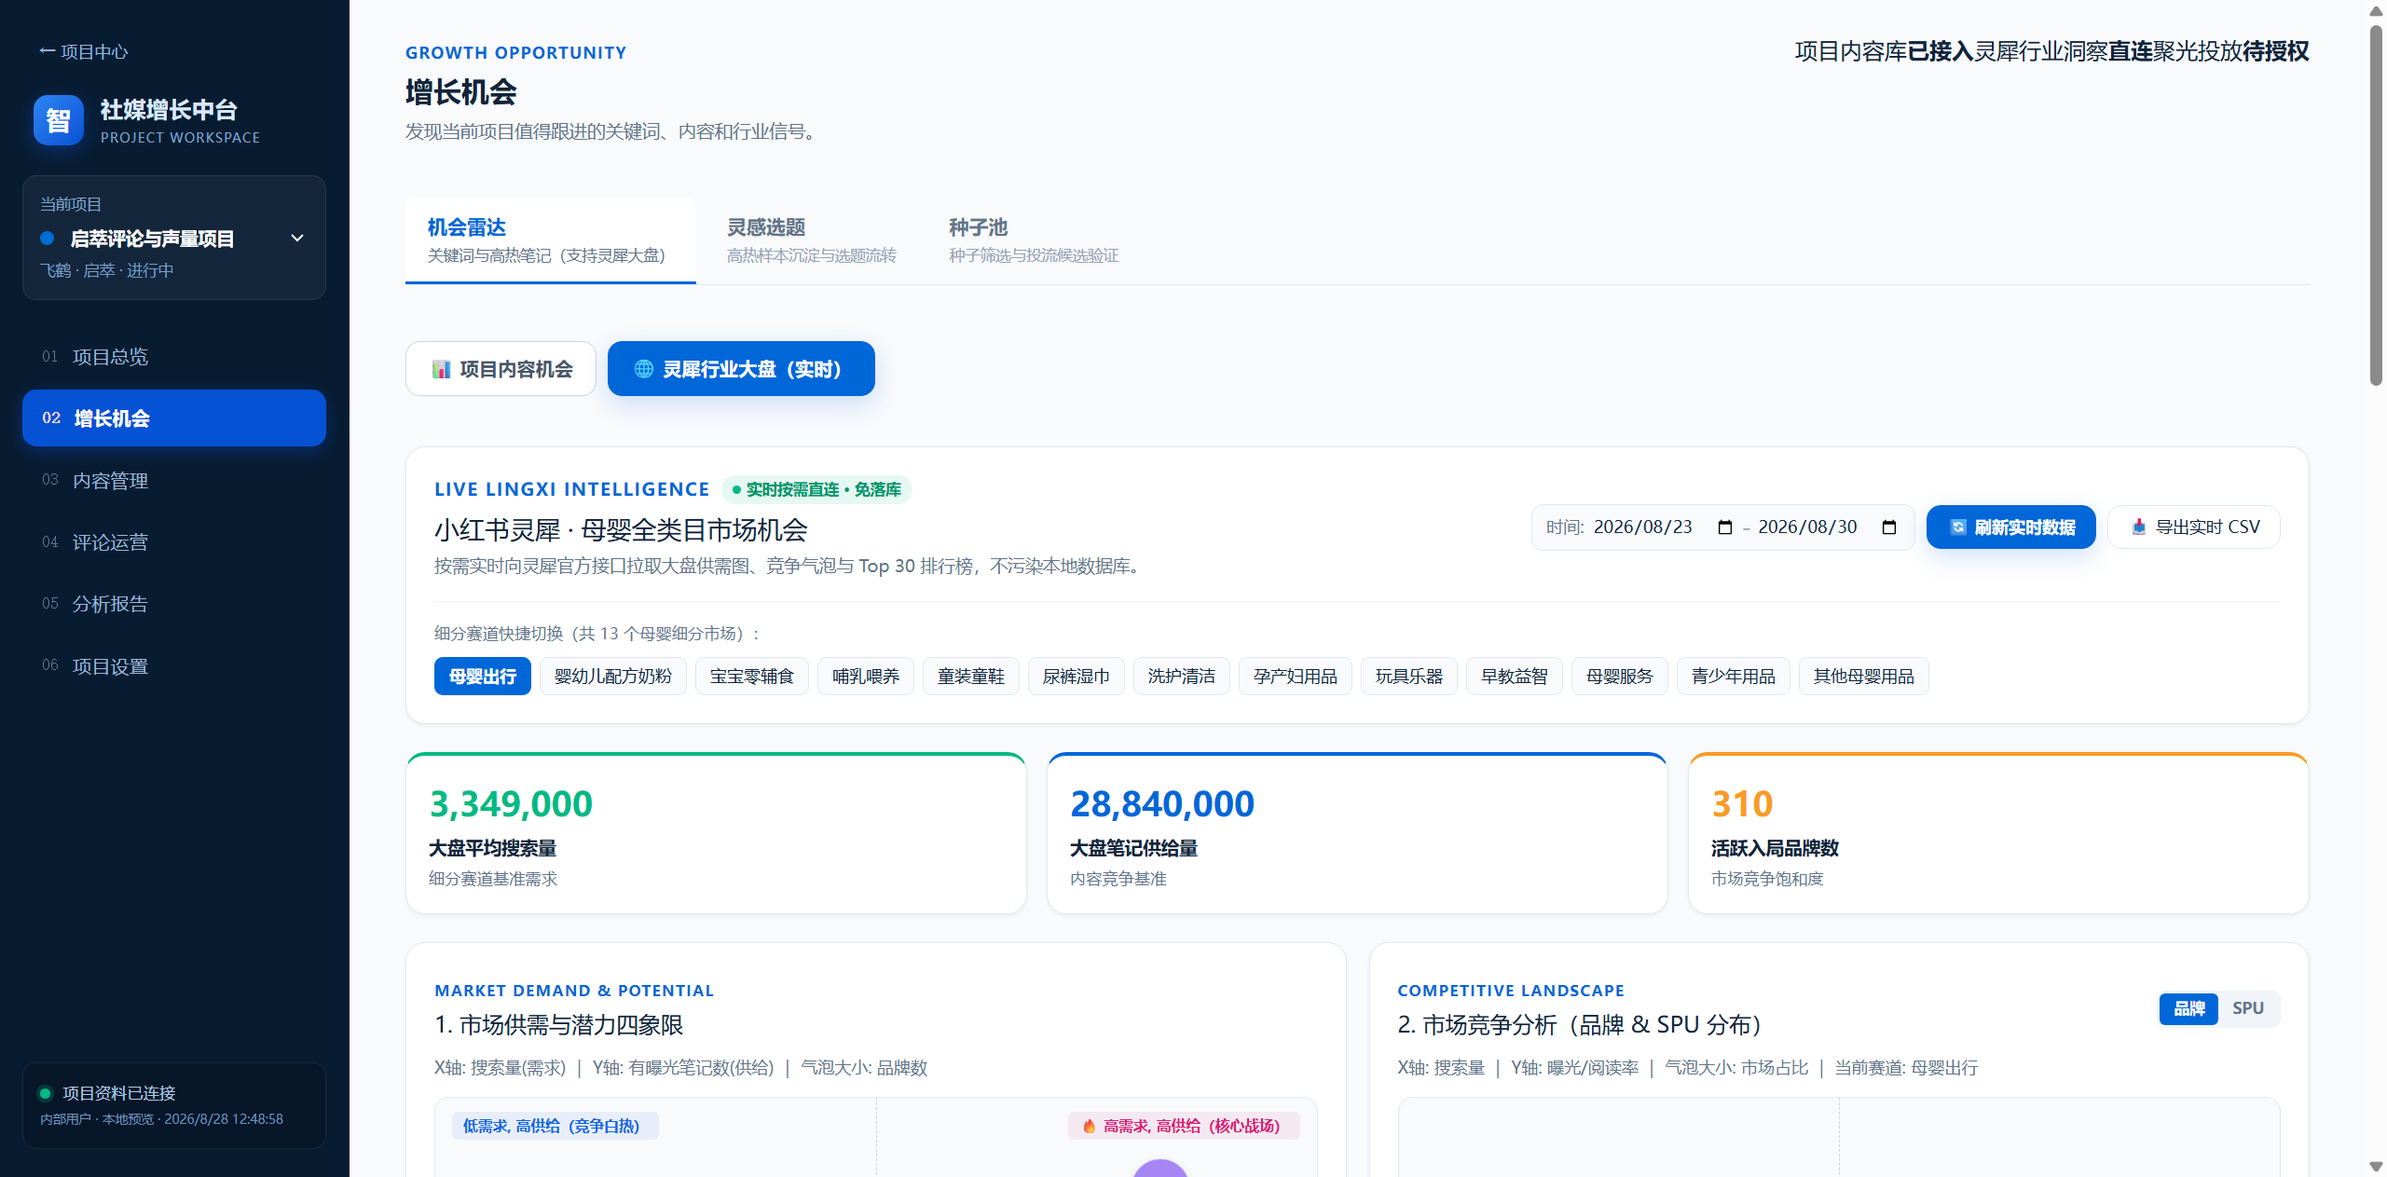
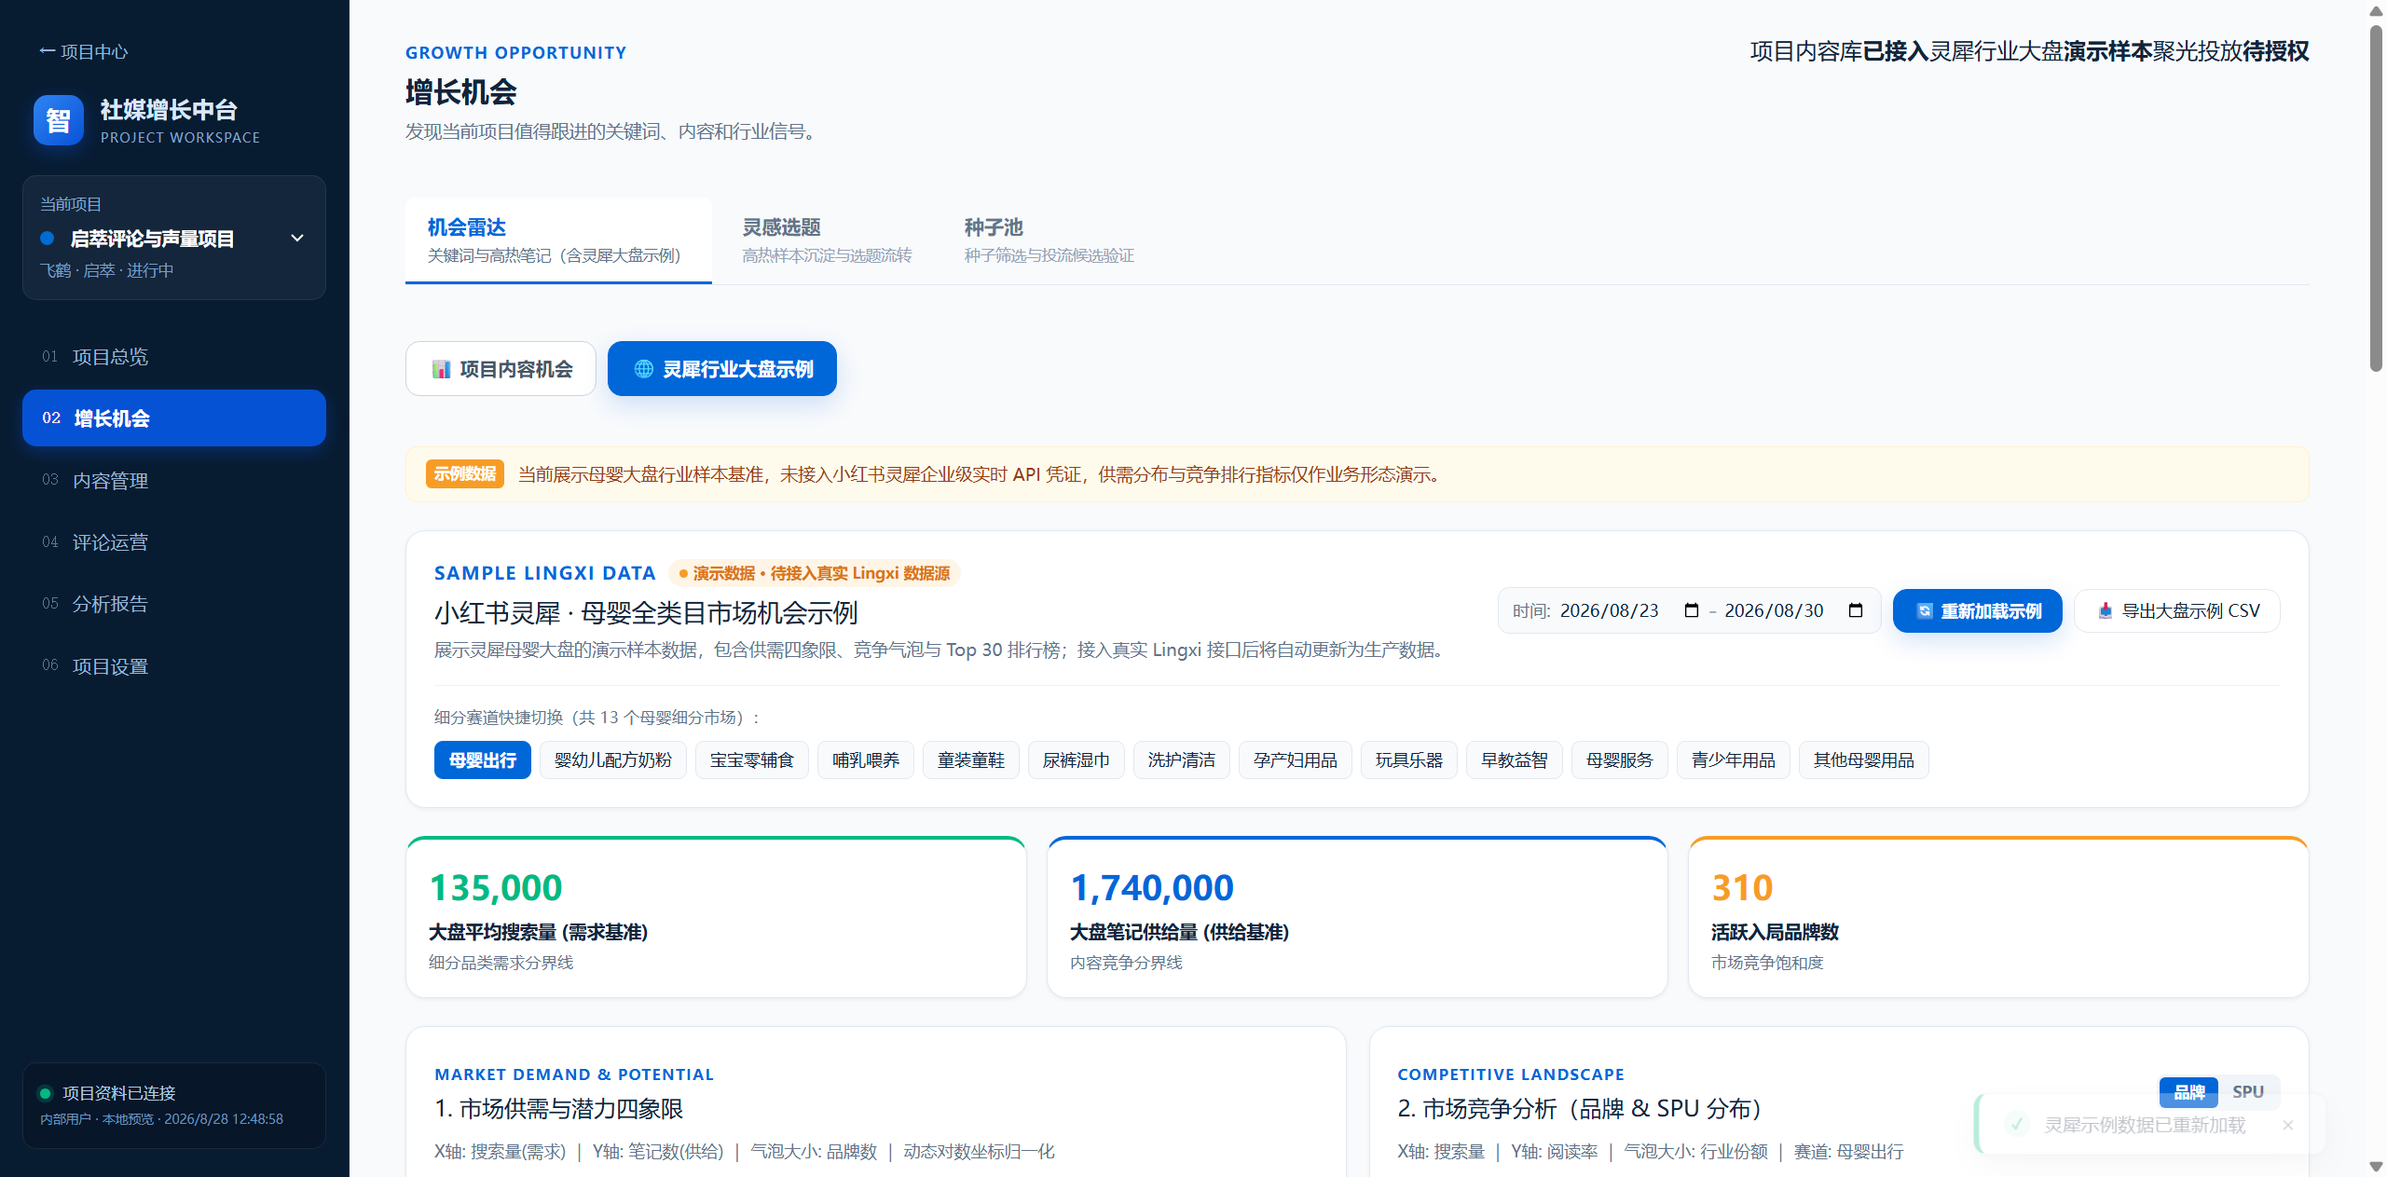
fix: label lingxi sample data accurately

diff --git a/feihe-mvp/app/lingxi-track.tsx b/feihe-mvp/app/lingxi-track.tsx
@@ -38,7 +38,14 @@ export type LingxiTrackData = {
   category: string;
   period: { start: string; end: string };
   subMarket: string;
-  benchmarks: { avgSearchNum: number; avgNoteNum: number; avgBrandCount: number };
+  benchmarks: {
+    avgSearchNum: number;
+    avgNoteNum: number;
+    demandBenchmark?: number;
+    supplyBenchmark?: number;
+    avgBrandCount: number;
+    scope?: string;
+  };
   marketOpportunities: LingxiCategory[];
   brandRankings: LingxiBrand[];
   spuRankings: LingxiSpu[];
@@ -141,7 +148,7 @@ export function LingxiTrackLive({
       );
 
       if (!res.ok) {
-        let errMessage = 'HTTP ' + res.status;
+        let errMessage = 'HTTP 错误 ' + res.status;
         try {
           const errData = (await res.json()) as { error?: string };
           if (errData?.error) errMessage = errData.error;
@@ -157,9 +164,9 @@ export function LingxiTrackLive({
       }
 
       setTrackData(data);
-      toast('灵犀实时数据已刷新', 'success');
+      toast('灵犀示例数据已重新加载', 'success');
     } catch (e) {
-      toast(e instanceof Error ? e.message : '拉取灵犀实时数据失败', 'error');
+      toast(e instanceof Error ? e.message : '加载示例数据失败', 'error');
     } finally {
       setLoading(false);
     }
@@ -201,43 +208,18 @@ export function LingxiTrackLive({
     const blob = new Blob([csvContent], { type: 'text/csv;charset=utf-8;' });
     const link = document.createElement('a');
     link.href = URL.createObjectURL(blob);
-    link.download = '灵犀母婴大盘机会_' + subMarket + '_' + startDate + '_' + endDate + '.csv';
+    link.download = '灵犀母婴大盘机会示例_' + subMarket + '_' + startDate + '_' + endDate + '.csv';
     link.click();
-    toast('已导出实时数据 CSV', 'success');
+    toast('已导出大盘示例 CSV', 'success');
   }
 
   const cats = trackData?.marketOpportunities || [];
   const brands = trackData?.brandRankings || [];
   const spus = trackData?.spuRankings || [];
 
-  // ==========================================
-  // 1. 供需四象限数据基准计算
-  // 规则：优先使用细分品类集的真实均值作为供需分水岭，
-  // 保证四象限坐标与实际业务供需分布完全一致，杜绝“气泡位置与象限标签互相矛盾”。
-  // ==========================================
-  const maxSearchInCats = Math.max(1, ...cats.map((c) => safeNum(c.searchNum)));
-  const maxNoteInCats = Math.max(1, ...cats.map((c) => safeNum(c.noteNum)));
-
-  const rawAvgSearch = safeNum(trackData?.benchmarks?.avgSearchNum);
-  const rawAvgNote = safeNum(trackData?.benchmarks?.avgNoteNum);
-
-  const catMeanSearch = cats.length
-    ? Math.round(cats.reduce((s, c) => s + safeNum(c.searchNum), 0) / cats.length)
-    : 135000;
-  const catMeanNote = cats.length
-    ? Math.round(cats.reduce((s, c) => s + safeNum(c.noteNum), 0) / cats.length)
-    : 1740000;
-
-  // 如果接口返回的 benchmark 在当前品类数据区间内，则使用接口值；否则使用细分市场的真实均值基准
-  const avgSearch =
-    rawAvgSearch > 0 && rawAvgSearch <= maxSearchInCats * 1.5
-      ? rawAvgSearch
-      : catMeanSearch;
-
-  const avgNote =
-    rawAvgNote > 0 && rawAvgNote <= maxNoteInCats * 1.5
-      ? rawAvgNote
-      : catMeanNote;
+  // 供需四象限真实数据基准计算
+  const avgSearch = safeNum(trackData?.benchmarks?.avgSearchNum || 135000);
+  const avgNote = safeNum(trackData?.benchmarks?.avgNoteNum || 1740000);
 
   const demandValues = [...cats.map((c) => safeNum(c.searchNum)), avgSearch];
   const supplyValues = [...cats.map((c) => safeNum(c.noteNum)), avgNote];
@@ -246,10 +228,7 @@ export function LingxiTrackLive({
   const demandBenchX = normalizeLogScale(avgSearch, demandValues, 14, 86);
   const supplyBenchY = normalizeLogScale(avgNote, supplyValues, 14, 86);
 
-  // ==========================================
-  // 2. 竞争分析（品牌 & SPU 分布）数据基准计算
-  // 真实使用 X = searchNum, Y = readRate，气泡大小 = share (Brand) 或 searchNum (SPU)
-  // ==========================================
+  // 竞争分析（品牌 & SPU 分布）真实数据计算
   const competitionList =
     subject === 'brand' ? brands.slice(0, 16) : spus.slice(0, 16);
 
@@ -270,7 +249,38 @@ export function LingxiTrackLive({
 
   return (
     <div className="stack">
-      {/* 顶部控制面板 */}
+      {/* 演示数据明显标识条 */}
+      <div
+        style={{
+          background: '#fffbeb',
+          border: '1px solid #fef3c7',
+          borderRadius: '8px',
+          padding: '9px 14px',
+          display: 'flex',
+          alignItems: 'center',
+          gap: '10px',
+          fontSize: '12.5px',
+          color: '#92400e',
+        }}
+      >
+        <span
+          style={{
+            background: '#f59e0b',
+            color: '#ffffff',
+            padding: '2px 6px',
+            borderRadius: '4px',
+            fontSize: '11px',
+            fontWeight: 700,
+          }}
+        >
+          示例数据
+        </span>
+        <span>
+          当前展示母婴大盘行业样本基准，未接入小红书灵犀企业级实时 API 凭证，供需分布与竞争排行指标仅作业务形态演示。
+        </span>
+      </div>
+
+      {/* 控制面板 */}
       <section className="panel" style={{ background: '#ffffff' }}>
         <div
           style={{
@@ -284,15 +294,15 @@ export function LingxiTrackLive({
           <div>
             <div style={{ display: 'flex', alignItems: 'center', gap: '8px' }}>
               <small style={{ color: 'var(--primary-blue)', fontWeight: 700, letterSpacing: '1px' }}>
-                LIVE LINGXI INTELLIGENCE
+                SAMPLE LINGXI DATA
               </small>
               <span
                 style={{
                   display: 'inline-flex',
                   alignItems: 'center',
                   gap: '4px',
-                  background: 'rgba(16,185,129,0.1)',
-                  color: '#059669',
+                  background: 'rgba(245,158,11,0.1)',
+                  color: '#d97706',
                   padding: '2px 8px',
                   borderRadius: '12px',
                   fontSize: '11px',
@@ -304,18 +314,18 @@ export function LingxiTrackLive({
                     width: '6px',
                     height: '6px',
                     borderRadius: '50%',
-                    background: '#10b981',
+                    background: '#f59e0b',
                     display: 'inline-block',
                   }}
                 />{' '}
-                实时按需直连 · 免落库
+                演示数据 · 待接入真实 Lingxi 数据源
               </span>
             </div>
             <h2 style={{ margin: '4px 0', fontSize: '18px', color: 'var(--text-main)' }}>
-              小红书灵犀 · 母婴全类目市场机会
+              小红书灵犀 · 母婴全类目市场机会示例
             </h2>
             <p style={{ margin: 0, fontSize: '12.5px', color: 'var(--text-muted)' }}>
-              按需实时向灵犀官方接口拉取大盘供需图、竞争气泡与 Top 30 排行榜，不污染本地数据库。
+              展示灵犀母婴大盘的演示样本数据，包含供需四象限、竞争气泡与 Top 30 排行榜；接入真实 Lingxi 接口后将自动更新为生产数据。
             </p>
           </div>
           <div style={{ display: 'flex', alignItems: 'center', gap: '8px', flexWrap: 'wrap' }}>
@@ -364,7 +374,7 @@ export function LingxiTrackLive({
               disabled={loading}
               style={{ fontSize: '12px', padding: '6px 14px' }}
             >
-              {loading ? '同步中…' : '🔄 刷新实时数据'}
+              {loading ? '加载中…' : '🔄 重新加载示例'}
             </button>
             <button
               onClick={exportCsv}
@@ -379,7 +389,7 @@ export function LingxiTrackLive({
                 cursor: 'pointer',
               }}
             >
-              📥 导出实时 CSV
+              📥 导出大盘示例 CSV
             </button>
           </div>
         </div>
@@ -420,13 +430,13 @@ export function LingxiTrackLive({
         <div className="status-grid">
           <article className="status-card good">
             <b>{Number(trackData.benchmarks.avgSearchNum || 0).toLocaleString()}</b>
-            <span>大盘平均搜索量</span>
-            <small>细分赛道基准需求</small>
+            <span>大盘平均搜索量 (需求基准)</span>
+            <small>细分品类需求分界线</small>
           </article>
           <article className="status-card base">
             <b>{Number(trackData.benchmarks.avgNoteNum || 0).toLocaleString()}</b>
-            <span>大盘笔记供给量</span>
-            <small>内容竞争基准</small>
+            <span>大盘笔记供给量 (供给基准)</span>
+            <small>内容竞争分界线</small>
           </article>
           <article className="status-card warn">
             <b>{Number(trackData.benchmarks.avgBrandCount || 0)}</b>

diff --git a/feihe-mvp/app/api/data-map/route.ts b/feihe-mvp/app/api/data-map/route.ts
@@ -1,4 +1,4 @@
-import { env } from 'cloudflare:workers';
+import { env } from 'cloudflare:workers';
 import { apiUser, jsonError } from '@/lib/api-auth';
 import { db, ensureSchema } from '@/lib/db';
 import { projectId } from '@/lib/projects';
@@ -26,7 +26,7 @@ async function seed(project:string){const d1=db(),now=new Date().toISOString();
   // Integrations: Keystone, IPSCG, Lingxi, Juguang
   await d1.prepare(`INSERT OR REPLACE INTO integrations(id,project_id,provider,name,base_url,enabled,config_json,status,created_at,updated_at) VALUES(?,?,?,?,?,1,?,'连接正常',?,?)`).bind(`${project}:keystone`,project,'keystone','Keystone AI 模型网关','https://keystonehk.ai/v1',JSON.stringify({modelsPath:'/models',chatPath:'/chat/completions',textModel:'gpt-5.6-terra',imageModel:'gpt-image-2',purpose:'意图理解、ReportSpec 生成与生图'}),now,now).run();
   await d1.prepare(`INSERT OR REPLACE INTO integrations(id,project_id,provider,name,base_url,enabled,config_json,status,created_at,updated_at) VALUES(?,?,?,?,?,1,?,'连接正常',?,?)`).bind(`${project}:ipscg`,project,'ipscg','IPSCG 素材抓取系统','http://117.78.5.18:8080/ips-api',JSON.stringify({purpose:'小红书关键词笔记抓取、竞品UGC样本、评论抓取',listPath:'/yimei/getKeywordTaskList',resultPath:'/yimei/selectKeywordResults'}),now,now).run();
-  await d1.prepare(`INSERT OR REPLACE INTO integrations(id,project_id,provider,name,base_url,enabled,config_json,status,created_at,updated_at) VALUES(?,?,?,?,?,1,?,'连接正常',?,?)`).bind(`${project}:lingxi`,project,'lingxi','小红书灵犀平台（白犀计划）','https://idea.xiaohongshu.com',JSON.stringify({purpose:'市场机会（市场供需/潜力）、母婴13细分赛道、品牌与SPU Top30',brand:'白犀计划',brandId:'548104',muyingCode:'2d73b2f6a5584885ac4ca78638b8aab3',status:'免落库实时直连'}),now,now).run();
+  await d1.prepare(`INSERT OR REPLACE INTO integrations(id,project_id,provider,name,base_url,enabled,config_json,status,created_at,updated_at) VALUES(?,?,?,?,?,1,?,'连接正常',?,?)`).bind(`${project}:lingxi`,project,'lingxi','小红书灵犀平台（白犀计划）','https://idea.xiaohongshu.com',JSON.stringify({purpose:'市场机会（市场供需/潜力）、母婴13细分赛道、品牌与SPU Top30',brand:'白犀计划',brandId:'548104',muyingCode:'2d73b2f6a5584885ac4ca78638b8aab3',status:'演示样本数据'}),now,now).run();
   await d1.prepare(`INSERT OR REPLACE INTO integrations(id,project_id,provider,name,base_url,enabled,config_json,status,created_at,updated_at) VALUES(?,?,?,?,?,1,?,'连接正常',?,?)`).bind(`${project}:juguang`,project,'juguang','小红书聚光投放平台（代理商易美）','https://partner.xiaohongshu.com',JSON.stringify({purpose:'65个子账户消耗、曝光、点击、CTR、余额及明细',agent:'北京易美',subAccountCount:65,topAdvertiserId:10898747}),now,now).run();
 
   // Source Accounts
@@ -44,7 +44,7 @@ async function seed(project:string){const d1=db(),now=new Date().toISOString();
     [`${project}:project_metrics`,'project_metrics','项目经营指标','GET','/api/dashboard','内部数据','按项目和时间范围读取发布、评论、内容与处置聚合指标',null],
     [`${project}:juguang_summary`,'juguang_summary','聚光投放消耗与指标汇总','GET','/api/ads/summary','投放数据','按项目聚合聚光 65 个子账户的消耗、曝光、点击、CTR 与余额',`${project}:juguang`],
     [`${project}:juguang_sub_page`,'juguang_sub_page','聚光代理商子账户接口','GET','/api/partner/agent/sub/page','投放接口','代理商后台分页拉取全部 65 个子账户投放明细',`${project}:juguang`],
-    [`${project}:lingxi_track_live`,'lingxi_track_live','灵犀母婴大盘机会实时直连','GET','/api/lingxi/track','行业洞察','免落库实时直连母婴 13 大细分赛道供需四象限、品牌与 SPU Top30 排行',`${project}:lingxi`],
+    [`${project}:lingxi_track_live`,'lingxi_track_live','灵犀母婴大盘机会示例','GET','/api/lingxi/track','行业洞察','母婴 13 大细分赛道供需四象限、品牌与 SPU Top30 演示样本',`${project}:lingxi`],
     [`${project}:lingxi_market`,'lingxi_market','灵犀市场供需与潜力','POST','/api/idea/trackV2/*','行业洞察','市场供需/市场潜力（母婴类目，白犀计划品牌）；实时按需拉取',`${project}:lingxi`],
     [`${project}:redtrend_search`,'redtrend_search','关键词笔记搜索','POST','/api/solar/content_square/searchNote','内容扫描','按关键词和日期范围发现本品/竞品 UGC 笔记',`${project}:redtrend`],
     [`${project}:redtrend_detail`,'redtrend_detail','笔记详情与封面','GET','/api/solar/note/{noteId}/detail?bizCode=','内容资产','抓取笔记首图并下载到项目 R2 资产库',`${project}:redtrend`],

diff --git a/feihe-mvp/lib/lingxi.ts b/feihe-mvp/lib/lingxi.ts
@@ -8,7 +8,7 @@ export type LingxiTrackResult = {
   brand: string;
   period: { start: string; end: string };
   subMarket: string;
-  benchmarks: { avgSearchNum: number; avgNoteNum: number; avgBrandCount: number };
+  benchmarks: { avgSearchNum: number; avgNoteNum: number; demandBenchmark?: number; supplyBenchmark?: number; avgBrandCount: number; scope?: string };
   marketOpportunities: LingxiCategory[];
   brandRankings: LingxiBrand[];
   spuRankings: LingxiSpu[];
@@ -100,19 +100,22 @@ export const topLingxiSpus: LingxiSpu[] = [
 export function getLingxiTrackData(startDate = '2026-08-23', endDate = '2026-08-30', subMarket = '母婴出行'): LingxiTrackResult {
   return {
     ok: true,
-    source: 'lingxi_live',
+    source: 'lingxi_demo',
     category: '母婴',
     brand: '白犀计划',
     period: { start: startDate, end: endDate },
     subMarket,
     benchmarks: {
-      avgSearchNum: 3349000,
-      avgNoteNum: 28840000,
+      avgSearchNum: 135000,
+      avgNoteNum: 1740000,
+      demandBenchmark: 135000,
+      supplyBenchmark: 1740000,
       avgBrandCount: 310,
+      scope: '母婴 13 细分市场品类均值',
     },
     marketOpportunities: muyingCategories,
     brandRankings: topLingxiBrands,
     spuRankings: topLingxiSpus,
-    syncedAt: new Date().toISOString(),
+    syncedAt: '2026-08-30T00:00:00.000Z',
   };
 }

diff --git a/feihe-mvp/features/growth/GrowthWorkspace.tsx b/feihe-mvp/features/growth/GrowthWorkspace.tsx
@@ -1,4 +1,4 @@
-'use client';
+'use client';
 
 import type { Dashboard, Ops, GrowthSettings } from '../../lib/types/project';
 import { PageHeader } from '../../components/ui/PageHeader';
@@ -46,7 +46,7 @@ export function GrowthWorkspace({
   }
 
   const tabs: Array<[string, string, string]> = [
-    ['radar', '机会雷达', '关键词与高热笔记（支持灵犀大盘）'],
+    ['radar', '机会雷达', '关键词与高热笔记（含灵犀大盘示例）'],
     ['inspiration', '灵感选题', '高热样本沉淀与选题流转'],
     ['seed', '种子池', '种子筛选与投流候选验证'],
   ];
@@ -65,7 +65,7 @@ export function GrowthWorkspace({
           </span>
           <span className="connected">
             <i />
-            灵犀行业洞察<strong>直连</strong>
+            灵犀行业大盘<strong>演示样本</strong>
           </span>
           <span>
             <i />

diff --git a/feihe-mvp/features/growth/KeywordRadar.tsx b/feihe-mvp/features/growth/KeywordRadar.tsx
@@ -109,7 +109,7 @@ export function KeywordRadar({
           style={dataView !== 'lingxi' ? { background: '#ffffff', color: '#475569', borderColor: '#cbd5e1' } : {}}
           onClick={() => setDataView('lingxi')}
         >
-          🌐 灵犀行业大盘（实时）
+          🌐 灵犀行业大盘示例
         </button>
       </div>
 
